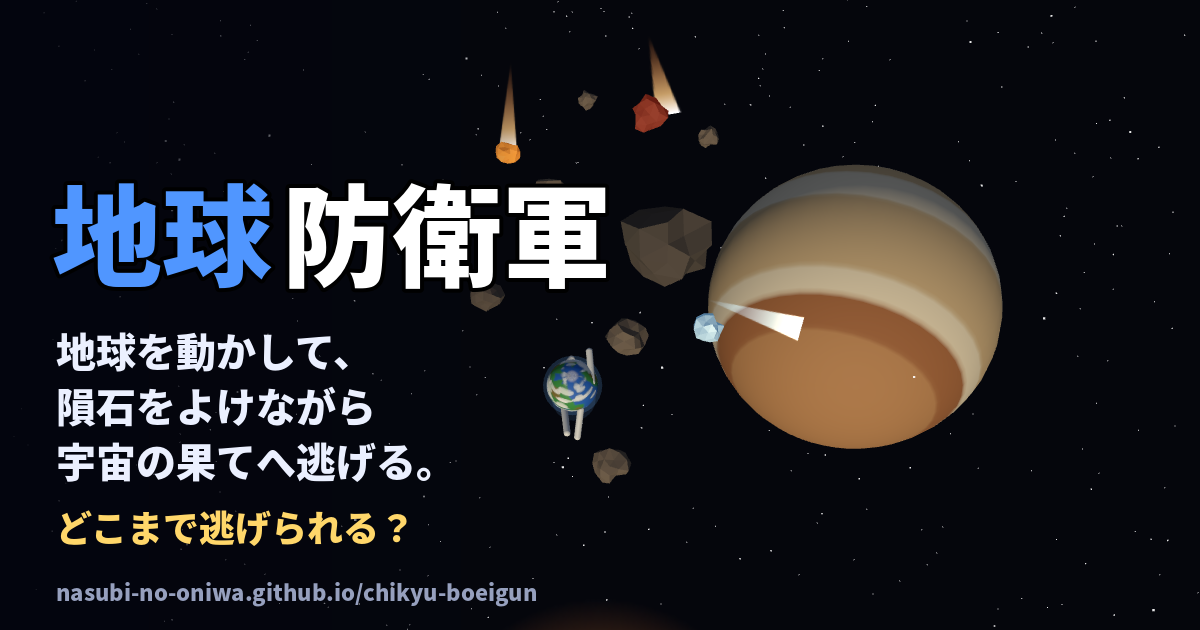
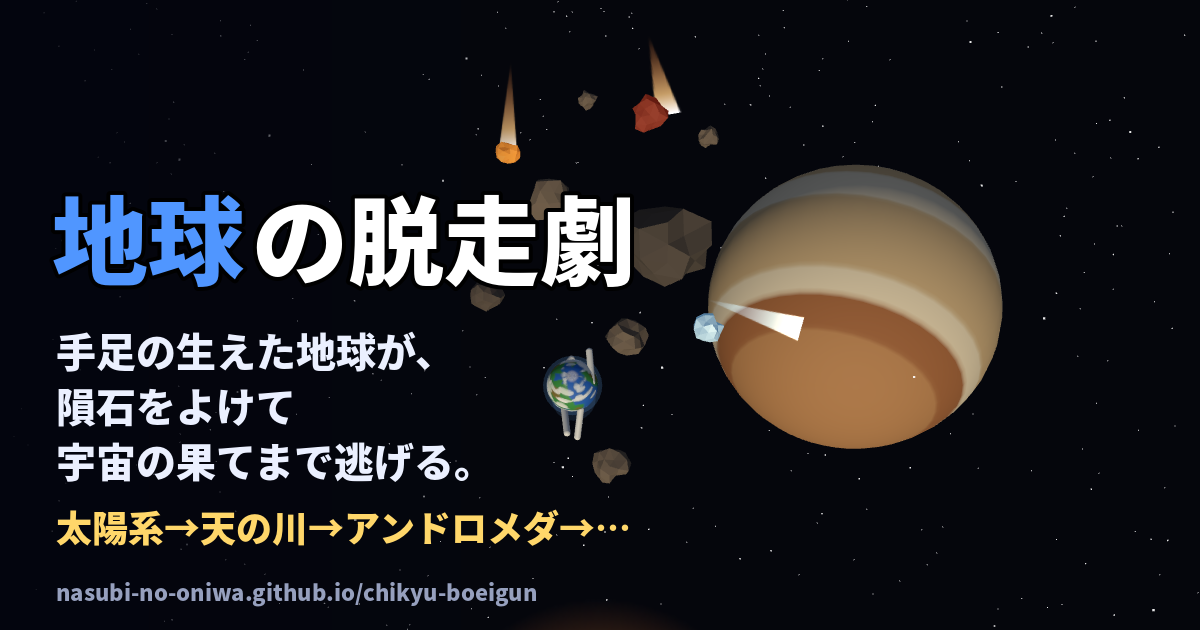
地球の脱走劇に改名。上の段のブースターで隕石を砕く。読み込みを減らす（操作の記録を分ける・掲示板30件・確かめは新しい分だけ・古い書きこみを消す）
Claude-Session: https://claude.ai/code/session_01JQ3FvDB9n2m8sabBvidoDU

Changed region(s): [[0.0308, 0.2714, 0.555, 0.4825], [0.0308, 0.5127, 0.4008, 0.7841], [0.0308, 0.8143, 0.5242, 0.8746]]

diff --git a/index.html b/index.html
@@ -11,10 +11,10 @@
 </script>
 <meta charset="utf-8">
 <meta name="viewport" content="width=device-width,initial-scale=1,viewport-fit=cover,user-scalable=no">
-<title>地球防衛軍</title>
+<title>地球の脱走劇</title>
 <meta name="description" content="地球を動かして隕石をよけ、太陽系→天の川→アンドロメダ→銀河の網の目→宇宙の果てへ。どこまで逃げられる？">
-<meta property="og:title" content="地球防衛軍">
-<meta property="og:description" content="地球を動かして隕石をよけ、太陽系→天の川→アンドロメダ→銀河の網の目→宇宙の果てへ。どこまで逃げられる？">
+<meta property="og:title" content="地球の脱走劇">
+<meta property="og:description" content="手足の生えた地球を動かして隕石をよけ、太陽系→天の川→アンドロメダ→銀河の網の目→宇宙の果てへ。どこまで逃げられる？">
 <meta property="og:image" content="https://nasubi-no-oniwa.github.io/chikyu-boeigun/ogp.png">
 <meta property="og:url" content="https://nasubi-no-oniwa.github.io/chikyu-boeigun/">
 <meta name="twitter:card" content="summary_large_image">
@@ -190,10 +190,10 @@ const esc=s=>String(s).replace(/[&<>"']/g,c=>({'&':'&amp;','<':'&lt;','>':'&gt;'
 
 // ===== ことば（日本語・英語・繁体中文・韓国語） =====
 const TX={
-ja:{title:'<em>地球</em>防衛軍',hud:'地球防衛軍',
+ja:{title:'<em>地球</em>の脱走劇',hud:'地球の脱走劇',
  how:'地球を動かして、隕石をよけながら宇宙の果てへ逃げます。ぷにコンで移動。1回でも当たったら木っ端みじん。ステージをクリアすると、次のステージと、その先用のブースターが手に入ります。',
  pcHow:'WASD・矢印キーで移動',
- name:'なまえ（12文字まで）',anon:'名無しの防衛隊員',start:'出撃する',rank:'ランキング',bbs:'掲示板',
+ name:'なまえ（12文字まで）',anon:'名無しの脱走者',start:'出撃する',rank:'ランキング',bbs:'掲示板',
  stageH:'ステージ',boostH:'ブースター',locked:'🔒 前のステージをクリアで開く',cleared:'クリア済み',clrN:'クリア {n}人',
  stages:['太陽系脱出','天の川銀河脱出','アンドロメダ銀河脱出','銀河の網の目','宇宙の果て'],
  tiers:['太陽系用','天の川用','アンドロメダ用','網の目用','宇宙の果て用'],
@@ -224,11 +224,11 @@ ja:{title:'<em>地球</em>防衛軍',hud:'地球防衛軍',
  bWait:'あと {n} 秒で書きこめます',bEmpty:'まだ書きこみがありません',bDone:'書きこみました',bErr:'書きこめませんでした',bBad:'その言葉は書きこめません',
  take:'受け取る（残り{n}人）',taken:'受け取りました',have:'もう持っている',full:'受け取りおわり',mine:'自分が投げたもの',takeErr:'受け取れませんでした',
  ago:{s:'{n}秒前',m:'{n}分前',h:'{n}時間前',d:'{n}日前'},
- postDead:'地球、「{s}」の途中で木っ端みじん\n{p}まで（{d}）',postClear:'地球が「{s}」を突破した！\n{t}秒・{b}',postFar:'地球を {d} 先まで逃がした\n到達「{p}」',tags:'#地球防衛軍'},
-en:{title:'Earth <em>Defense</em> Force',hud:'Earth Defense Force',
+ postDead:'地球、「{s}」の途中で木っ端みじん\n{p}まで（{d}）',postClear:'地球が「{s}」を突破した！\n{t}秒・{b}',postFar:'地球を {d} 先まで逃がした\n到達「{p}」',tags:'#地球の脱走劇'},
+en:{title:'The Great <em>Earth</em> Escape',hud:'The Great Earth Escape',
  how:'Move the Earth, dodge the meteors and flee to the edge of the universe. Use the stick to move. One hit and Earth is blown to bits. Clear a stage to unlock the next one and new boosters.',
  pcHow:'WASD / arrow keys to move',
- name:'Name (up to 12)',anon:'Anonymous defender',start:'Launch',rank:'Ranking',bbs:'Board',
+ name:'Name (up to 12)',anon:'Anonymous escapee',start:'Launch',rank:'Ranking',bbs:'Board',
  stageH:'Stage',boostH:'Booster',locked:'🔒 Clear the previous stage',cleared:'Cleared',clrN:'{n} cleared',
  stages:['Escape the Solar System','Escape the Milky Way','Escape Andromeda','The Cosmic Web','The Edge of the Universe'],
  tiers:['Solar class','Milky Way class','Andromeda class','Cosmic Web class','Edge class'],
@@ -259,11 +259,11 @@ en:{title:'Earth <em>Defense</em> Force',hud:'Earth Defense Force',
  bWait:'You can post in {n} s',bEmpty:'No posts yet',bDone:'Posted',bErr:'Could not post',bBad:'You can’t post that',
  take:'Take ({n} left)',taken:'Taken',have:'Already have it',full:'All taken',mine:'Yours',takeErr:'Could not take it',
  ago:{s:'{n}s ago',m:'{n}m ago',h:'{n}h ago',d:'{n}d ago'},
- postDead:'Earth blown to bits in "{s}"\nReached {p} ({d})',postClear:'Earth got through "{s}"!\n{t}s with {b}',postFar:'Got the Earth {d} away\nReached "{p}"',tags:'#地球防衛軍'},
-zh:{title:'<em>地球</em>防衛軍',hud:'地球防衛軍',
+ postDead:'Earth blown to bits in "{s}"\nReached {p} ({d})',postClear:'Earth got through "{s}"!\n{t}s with {b}',postFar:'Got the Earth {d} away\nReached "{p}"',tags:'#地球の脱走劇'},
+zh:{title:'<em>地球</em>大逃亡',hud:'地球大逃亡',
  how:'移動地球，閃開隕石，逃向宇宙盡頭。用搖桿移動。被撞到一次就粉身碎骨。過關就能打開下一關，還能拿到更遠用的推進器。',
  pcHow:'WASD・方向鍵移動',
- name:'名字（12字以內）',anon:'無名防衛隊員',start:'出擊',rank:'排行榜',bbs:'留言板',
+ name:'名字（12字以內）',anon:'無名逃亡者',start:'出擊',rank:'排行榜',bbs:'留言板',
  stageH:'關卡',boostH:'推進器',locked:'🔒 過了前一關才會打開',cleared:'已過關',clrN:'過關 {n}人',
  stages:['逃出太陽系','逃出銀河系','逃出仙女座星系','宇宙網','宇宙盡頭'],
  tiers:['太陽系用','銀河系用','仙女座用','宇宙網用','宇宙盡頭用'],
@@ -294,11 +294,11 @@ zh:{title:'<em>地球</em>防衛軍',hud:'地球防衛軍',
  bWait:'{n} 秒後可以留言',bEmpty:'還沒有留言',bDone:'已留言',bErr:'無法留言',bBad:'這個字詞不能用',
  take:'領取（剩{n}人）',taken:'已領取',have:'已經有了',full:'已領完',mine:'自己丟的',takeErr:'無法領取',
  ago:{s:'{n}秒前',m:'{n}分前',h:'{n}小時前',d:'{n}天前'},
- postDead:'地球在「{s}」途中粉身碎骨\n到{p}（{d}）',postClear:'地球突破了「{s}」！\n{t}秒・{b}',postFar:'讓地球逃到了 {d} 之外\n到達「{p}」',tags:'#地球防衛軍'},
-ko:{title:'<em>지구</em> 방위군',hud:'지구 방위군',
+ postDead:'地球在「{s}」途中粉身碎骨\n到{p}（{d}）',postClear:'地球突破了「{s}」！\n{t}秒・{b}',postFar:'讓地球逃到了 {d} 之外\n到達「{p}」',tags:'#地球の脱走劇'},
+ko:{title:'<em>지구</em> 대탈주',hud:'지구 대탈주',
  how:'지구를 움직여 운석을 피하며 우주의 끝으로 도망칩니다. 스틱으로 이동. 한 번이라도 맞으면 산산조각. 스테이지를 클리어하면 다음 스테이지와 더 먼 곳용 부스터를 얻습니다.',
  pcHow:'WASD·방향키로 이동',
- name:'이름 (12자까지)',anon:'이름 없는 방위대원',start:'출격',rank:'랭킹',bbs:'게시판',
+ name:'이름 (12자까지)',anon:'이름 없는 탈주자',start:'출격',rank:'랭킹',bbs:'게시판',
  stageH:'스테이지',boostH:'부스터',locked:'🔒 앞 스테이지를 클리어하면 열림',cleared:'클리어',clrN:'클리어 {n}명',
  stages:['태양계 탈출','은하수 탈출','안드로메다 탈출','우주 거미줄','우주의 끝'],
  tiers:['태양계용','은하수용','안드로메다용','거미줄용','우주 끝용'],
@@ -329,7 +329,7 @@ ko:{title:'<em>지구</em> 방위군',hud:'지구 방위군',
  bWait:'{n}초 후에 쓸 수 있어요',bEmpty:'아직 글이 없어요',bDone:'썼습니다',bErr:'쓰지 못했습니다',bBad:'그 말은 쓸 수 없어요',
  take:'받기 (남은 {n}명)',taken:'받았습니다',have:'이미 있음',full:'마감',mine:'내가 던진 것',takeErr:'받지 못했습니다',
  ago:{s:'{n}초 전',m:'{n}분 전',h:'{n}시간 전',d:'{n}일 전'},
- postDead:'지구, 「{s}」 도중에 산산조각\n{p}까지 ({d})',postClear:'지구가 「{s}」를 돌파했다!\n{t}초·{b}',postFar:'지구를 {d} 너머까지 도망시켰다\n도달 "{p}"',tags:'#地球防衛軍'}};
+ postDead:'지구, 「{s}」 도중에 산산조각\n{p}까지 ({d})',postClear:'지구가 「{s}」를 돌파했다!\n{t}초·{b}',postFar:'지구를 {d} 너머까지 도망시켰다\n도달 "{p}"',tags:'#地球の脱走劇'}};
 const LANGS=[['ja','日本語'],['en','English'],['zh','繁中'],['ko','한국어']];
 let lang=(q=>['ja','en','zh','ko'].includes(q)?q:null)(new URLSearchParams(location.search).get('lang'))||ls.get('cb_lang',null)||(n=>n.startsWith('ja')?'ja':n.startsWith('zh')?'zh':n.startsWith('ko')?'ko':'en')((navigator.language||'ja').toLowerCase());
 const t=(k,o)=>{let s=(TX[lang]||TX.ja)[k];if(s==null)s=TX.ja[k];if(o)for(const [a,b] of Object.entries(o))s=String(s).split('{'+a+'}').join(b);return s;};
@@ -418,6 +418,7 @@ const SFX={
  whoosh(){if(!ac())return;const n=AC.currentTime;noise(n,.35,'bandpass',600,1.5,.18,2400);},
  warp(){if(!ac())return;const n=AC.currentTime;noise(n,2.2,'bandpass',200,2,.5,6000);tone(n,110,2,'sawtooth',.12,1760);[523,659,784,1047,1319,1568].forEach((f,i)=>tone(n+.9+i*.1,f,.6,'triangle',.15));},
  boom(){if(!ac())return;const n=AC.currentTime;noise(n,2.2,'lowpass',2600,.6,1,60);tone(n,80,1.6,'sine',.9,24);noise(n,.25,'bandpass',3600,1,.5);for(let i=1;i<6;i++)noise(n+i*.13,.4,'lowpass',900,.8,.35/i,120);},
+ smash(){if(!ac())return;const n=AC.currentTime;noise(n,.4,'lowpass',1800,.8,.6,200);tone(n,160,.25,'square',.12,60);},
  coin(){if(!ac())return;const n=AC.currentTime;tone(n,988,.1,'square',.08);tone(n+.08,1319,.3,'square',.08);},
  droneOn(){if(!ac()||drone)return;const c=AC,g=c.createGain();g.gain.value=.0001;g.connect(master);const os=[55,82.4,110.3].map((f,i)=>{const o=c.createOscillator();o.type=i?'sine':'triangle';o.frequency.value=f;o.connect(g);o.start();return o;});g.gain.exponentialRampToValueAtTime(.05,c.currentTime+1.5);drone={g,os};},
  droneOff(){if(!drone)return;const d=drone;drone=null;const n=AC.currentTime;d.g.gain.cancelScheduledValues(n);d.g.gain.setValueAtTime(Math.max(.0001,d.g.gain.value),n);d.g.gain.exponentialRampToValueAtTime(.0001,n+.4);d.os.forEach(o=>o.stop(n+.45));}
@@ -633,7 +634,13 @@ function blowUp(x,z,seed){
  flash={m:new THREE.Mesh(new THREE.SphereGeometry(1,24,16),fm),age:0};flash.m.position.set(x,.55,z);S3.add(flash.m);
  shake=1.2;
 }
+// 上の段のブースターで隕石を砕いたとき
+const DEB=new THREE.MeshStandardMaterial({color:0x9a8a7a,roughness:.9,flatShading:true});
+function smashFx(m){const q=prng(m.id*7+3);
+ for(let i=0;i<10;i++){const c=new THREE.Mesh(chunkG,DEB);c.scale.setScalar(m.r*(.15+q()*.2));c.position.set(m.x,.55,m.z);S3.add(c);const a=q()*6.28,sp=2+q()*4;FX.push({m:c,vx:Math.cos(a)*sp,vy:q()*3,vz:Math.sin(a)*sp-2,rx:q()*8,ry:q()*8,life:1.2});}
+ shake=Math.min(1,shake+.25);}
 function stepFx(dt){
+ FX=FX.filter(f=>{if(f.life==null)return true;f.life-=dt;if(f.life<=0){S3.remove(f.m);return false;}return true;});
  for(const f of FX){f.m.position.x+=f.vx*dt;f.m.position.y+=f.vy*dt;f.m.position.z+=f.vz*dt;f.m.rotation.x+=f.rx*dt;f.m.rotation.y+=f.ry*dt;}
  if(flash){flash.age+=dt;const a=flash.age;flash.m.scale.setScalar(.5+a*5);flash.m.material.opacity=Math.max(0,1-a/.7);if(a>.8){S3.remove(flash.m);flash.m.material.dispose();flash.m.geometry.dispose();flash=null;}}
 }
@@ -702,7 +709,7 @@ function tickOnce(){
  handleEv(S.ev,S);
  if(S.dead)onDead();else if(S.clear)onClear();
 }
-function handleEv(ev,S){for(const x of ev){if(x.e==='warn'&&x.m.ti>x.m.t0)SFX.warn();else if(x.e==='go'&&x.m.k!=='peb')SFX.whoosh();}
+function handleEv(ev,S){for(const x of ev){if(x.e==='warn'&&x.m.ti>x.m.t0)SFX.warn();else if(x.e==='go'&&x.m.k!=='peb')SFX.whoosh();else if(x.e==='smash'){smashFx(x.m);SFX.smash();}}
  const p=EB.passed(S.stage,S.u);if(p>L.passed){const from=L.passed;L.passed=p;if(S.clear||p-from>1)return;const k=MARKS[S.stage][p-1][0];
   const belt=EB.STAGES[S.stage].belts.some(b=>Math.abs(b[0]-S.u)<.015);
   if(k==='helio'){flashText(t('escape'),'',2400);SFX.pass(true);}else{flashText(t('pass',{p:markName(S.stage,p-1)}),belt?t('beltIn'):'',1800);SFX.pass(false);}}}
@@ -714,7 +721,7 @@ function onDead(){
 }
 function onClear(){
  mode='clear';L.clearT=0;SFX.droneOff();SFX.warp();
- const fast=L.S.tick<60;
+ const fast=!!L.S.over;
  L.res={kind:'clear',ms:EB.ms(L.S.tick),stage:L.stage,u:1,b:L.bid,first:!cleared(L.stage)};
  bigText(fast?t('instant'):stName(L.stage)+' '+t('clearBig'),markName(L.stage,MARKS[L.stage].length-1));
  submitClear();
@@ -830,7 +837,8 @@ async function syncProg(){
   if(ch){saveProg();if(mode==='title')drawPick();}
  }catch(e){}
 }
-async function loadCounts(){try{const r=await Promise.all([1,2,3,4].map(s=>fetch(DB('clr/'+s)+'.json?shallow=true').then(x=>x.ok?x.json():undefined).catch(()=>undefined)));r.forEach((j,i)=>{if(j!==undefined)clrCount[i+1]=j?Object.keys(j).length:0;});if(mode==='title')drawPick();}catch(e){}}
+let countsAt=0;
+async function loadCounts(){if(Date.now()-countsAt<60000)return;countsAt=Date.now();try{const r=await Promise.all([1,2,3,4].map(s=>fetch(DB('clr/'+s)+'.json?shallow=true').then(x=>x.ok?x.json():undefined).catch(()=>undefined)));r.forEach((j,i)=>{if(j!==undefined)clrCount[i+1]=j?Object.keys(j).length:0;});if(mode==='title')drawPick();}catch(e){}}
 fbAuth().then(syncProg).catch(()=>{});
 // ずる対策：始める前にサーバーの時計で「始めます」を書く。その時刻で障害物の並びが決まる
 function takeTicket(){
@@ -869,8 +877,9 @@ async function submitFar(){
  try{const a=await fbAuth();
   const cur=await getJ('far/'+a.uid).catch(()=>null);
   if(cur&&cur.p>=p){setMsg(t('notbetter'),'');return;}
-  const rec={n:myName(),s:r.ms,p,b:r.b,st:L.st,in:EB.enc(L.D),v:EB.V,t:{'.sv':'timestamp'}};L.sent=rec;
-  const res=await PUT('far/'+a.uid,a,rec);
+  const rec={n:myName(),s:r.ms,p,b:r.b,st:L.st,v:EB.V,t:{'.sv':'timestamp'}};L.sent=rec;
+  const body={};body['far/'+a.uid]=rec;body['farIn/'+a.uid]={st:L.st,in:EB.enc(L.D)};
+  const res=await PATCH(a,body);
   if(res.status===401||res.status===403){setMsg(t('late'),'err');return;}
   if(!res.ok)throw new Error('put '+res.status);
   sendState.canRename=true;const rk=await myRank(a.uid);setMsg(t('sent',{r:rk||'?'}),'ok');
@@ -889,7 +898,7 @@ $('renameBtn').onclick=async()=>{
 };
 $('nameIn').addEventListener('change',()=>{const n=$('nameIn').value.trim();if(n&&badName(n)){$('nameIn').value='';return;}ls.set('cb_name',n);});
 async function loadBoard(){
- const [d,h]=await Promise.all([fetch(DB('far')+'.json?orderBy=%22p%22&limitToLast=300').then(r=>{if(!r.ok)throw 0;return r.json()}),getJ('hidden').catch(()=>null)]);
+ const [d,h]=await Promise.all([fetch(DB('far')+'.json?orderBy=%22p%22&limitToLast=100').then(r=>{if(!r.ok)throw 0;return r.json()}),getJ('hidden').catch(()=>null)]);
  return Object.entries(d||{}).map(([id,v])=>({...v,id})).filter(r=>!(h&&h[r.id])&&typeof r.p==='number').sort((a,b)=>b.p-a.p||a.t-b.t);
 }
 async function myRank(uid){try{const rows=await loadBoard();const i=rows.findIndex(r=>r.id===uid);return i>=0?i+1:null;}catch(e){return null;}}
@@ -906,7 +915,8 @@ async function openRank(fromResult){
   box.innerHTML=h+'</table>';
  }catch(e){box.innerHTML='<p>'+esc(t('rankerr'))+'</p>';}
 }
-$('rankBox').onclick=e=>{const b=e.target.closest('button[data-i]');if(!b)return;startReplay(rankRows[+b.dataset.i]);};
+$('rankBox').onclick=async e=>{const b=e.target.closest('button[data-i]');if(!b)return;const r=rankRows[+b.dataset.i];b.disabled=true;
+ try{const fi=await getJ('farIn/'+r.id);if(fi&&fi.st===r.st)startReplay({...r,in:fi.in});else b.disabled=false;}catch(_){b.disabled=false;}};
 
 // ===== 掲示板 =====
 let bbsRows=[],bbsClaims={},nextPostAt=ls.get('cb_lp',0),bbsTimer=0;
@@ -925,10 +935,10 @@ async function openBbs(){
 }
 async function loadBbs(){
  const box=$('bbsList');if(!bbsRows.length)box.innerHTML='<p>'+esc(t('loading'))+'</p>';
- try{const [d,h]=await Promise.all([fetch(DB('bbs')+'.json?orderBy=%22t%22&limitToLast=100').then(r=>{if(!r.ok)throw 0;return r.json()}),getJ('hidden').catch(()=>null)]);
+ try{const [d,h]=await Promise.all([fetch(DB('bbs')+'.json?orderBy=%22t%22&limitToLast=30').then(r=>{if(!r.ok)throw 0;return r.json()}),getJ('hidden').catch(()=>null)]);
   bbsRows=Object.entries(d||{}).map(([id,v])=>({...v,id})).filter(r=>!(h&&h[r.id])).sort((a,b)=>b.t-a.t);
   const gifts=bbsRows.filter(r=>typeof r.g==='number');
-  const cl=await Promise.all(gifts.map(r=>getJ('claim/'+r.id).catch(()=>null)));gifts.forEach((r,i)=>bbsClaims[r.id]=cl[i]||{});
+  if(gifts.length){const k0=gifts.map(r=>r.id).sort()[0];const cl=await fetch(DB('claim')+'.json?orderBy=%22$key%22&startAt=%22'+encodeURIComponent(k0)+'%22').then(r=>r.ok?r.json():null).catch(()=>null)||{};gifts.forEach(r=>bbsClaims[r.id]=cl[r.id]||{});}
   drawBbs();
  }catch(e){box.innerHTML='<p>'+esc(t('rankerr'))+'</p>';}
 }
@@ -942,7 +952,8 @@ function drawBbs(){
    g='<div class="gift"><span>🎁 '+esc(bFull(r.g))+'</span>'+btn+'</div>';}
   return '<div class="post"><div class="h"><b>'+esc(r.n)+'</b>　'+esc(ago(r.t))+'</div><div class="x">'+esc(r.x)+'</div>'+g+'</div>';}).join('');
 }
-const rid=()=>{const A='ABCDEFGHIJKLMNOPQRSTUVWXYZabcdefghijklmnopqrstuvwxyz0123456789';let s='';const a=new Uint32Array(20);crypto.getRandomValues(a);for(const x of a)s+=A[x%A.length];return s;};
+// 書きこみのID：前に時刻（古い順に並ぶ）、うしろに乱数
+const rid=()=>{const A='ABCDEFGHIJKLMNOPQRSTUVWXYZabcdefghijklmnopqrstuvwxyz0123456789';let s=Date.now().toString(36).padStart(9,'0');const a=new Uint32Array(12);crypto.getRandomValues(a);for(const x of a)s+=A[x%A.length];return s;};
 $('bPost').onclick=async()=>{
  const x=$('bText').value.trim(),m=$('bMsg');if(!x)return;
  if(badName(x)){m.textContent=t('bBad');m.className='note err';m.dataset.k='';return;}

diff --git a/sim.js b/sim.js
@@ -56,9 +56,12 @@
   function create(seed, stage, bid) {
     stage = stage || 1; if (bid == null) bid = (stage - 1) * 3 + 1;
     const B = boost(bid);
-    return { tick: 0, stage, B, x: 0, z: AH * 0.45, face: 24, moving: false,
+    const o = { tick: 0, stage, B, x: 0, z: AH * 0.45, face: 24, moving: false,
       u: 0, du: B.sp / 100 * tierF(B.tier, stage) / NOM, ksp: B.sp / 100, lat: B.ag / 100 * EV0,
       ms: [], nid: 1, next: 70, pnext: 0, R: rng(seed), dead: false, clear: false, ev: [] };
+    // 上の段のブースター：数秒で突き抜ける。そのあいだ隕石がどっと来るが、正面から砕ける
+    if (B.tier > stage) { const S = o; S.over = true; S.du = 1 / (TICK * (B.tier - stage === 1 ? 3 : 1.5)); S.ksp = 3.5; S.next = 6; S.lat = EV0 * 1.6; }
+    return o;
   }
   const lerp = (a, b, k) => a + (b - a) * k;
   // u は 1 をこえても（宇宙の果て）むずかしくなり続ける
@@ -143,8 +146,13 @@
       } else if (S.tick === m.ti && m.ti > m.t0) S.ev.push({ e: 'go', m });
       m.x += m.vx; m.z += m.vz;
       const dx = S.x - m.x, dz = S.z - m.z, rr = m.r * .9 + ER;
-      if (dx * dx + dz * dz < rr * rr && !S.dead) { S.dead = true; S.by = m; S.ev.push({ e: 'dead', m }); }
+      if (dx * dx + dz * dz < rr * rr && !S.dead && !m.gone) {
+        // そのステージより上の段のブースターなら、正面から砕ける
+        if (S.B.tier > S.stage) { m.gone = true; S.ev.push({ e: 'smash', m }); }
+        else { S.dead = true; S.by = m; S.ev.push({ e: 'dead', m }); }
+      }
     }
+    if (S.B.tier > S.stage) S.ms = S.ms.filter(m => !m.gone);
     if (S.tick >= END && !S.dead) { S.dead = true; S.ev.push({ e: 'dead', m: null }); }
     if (S.tick % 20 === 0) S.ms = S.ms.filter(m => S.tick < m.ti || (m.z < AH + 3 && m.x > -AW - 4 && m.x < AW + 4 && m.z > -AH - 8));
     return S;

diff --git a/tools/gen-rules.py b/tools/gen-rules.py
@@ -22,21 +22,25 @@ R={
    ".write":"auth != null && auth.uid === $uid && newData.exists() && (!data.exists() || now - data.child('t').val() >= 2000)",
    ".validate":"newData.hasChildren(['t'])","t":{".validate":"newData.val() === now"},"$other":{".validate":False}}},
  # ステージ1〜4を初めてクリアした記録
- "clr":{".read":True,"$stage":{"$uid":{
+ "clr":{".read":True,"$stage":{".indexOn":["t"],"$uid":{
    ".write":f"auth != null && auth.uid === $uid && !data.exists() && newData.exists() && {TIME} && {unlocked('$stage','$uid')} && {own(B,'$uid')}",
    ".validate":"newData.hasChildren(['s','st','in','b','v','t']) && $stage.length === 1 && $stage >= '1' && $stage <= '4'",
    "s":num(50,900000),"st":{".validate":"newData.isNumber()"},
    "in":{".validate":"newData.isString() && newData.val().length >= 1 && newData.val().length <= 160000"},
    "b":intb,"v":{".validate":"newData.val() === 2"},"t":{".validate":"newData.val() === now"},"$other":{".validate":False}}}},
  # 宇宙の果てのランキング（p：距離の点）
- "far":{".read":True,".indexOn":["p"],"$uid":{
-   ".write":f"auth != null && auth.uid === $uid && newData.exists() && (({TIME} && {clr(4,'$uid')} && {own(B,'$uid')} && (!data.exists() || (newData.child('st').val() > data.child('st').val() && newData.child('p').val() > data.child('p').val()))) || (data.exists() && newData.child('st').val() === data.child('st').val() && newData.child('s').val() === data.child('s').val() && newData.child('p').val() === data.child('p').val() && newData.child('b').val() === data.child('b').val() && newData.child('in').val() === data.child('in').val()))",
-   ".validate":"newData.hasChildren(['n','s','p','b','st','in','v','t'])",
+ "far":{".read":True,".indexOn":["p","t"],"$uid":{
+   ".write":f"auth != null && auth.uid === $uid && newData.exists() && newData.parent().parent().child('farIn/' + $uid + '/st').val() === newData.child('st').val() && (({TIME} && {clr(4,'$uid')} && {own(B,'$uid')} && (!data.exists() || (newData.child('st').val() > data.child('st').val() && newData.child('p').val() > data.child('p').val()))) || (data.exists() && newData.child('st').val() === data.child('st').val() && newData.child('s').val() === data.child('s').val() && newData.child('p').val() === data.child('p').val() && newData.child('b').val() === data.child('b').val()))",
+   ".validate":"newData.hasChildren(['n','s','p','b','st','v','t'])",
    "n":{".validate":"newData.isString() && newData.val().length >= 1 && newData.val().length <= 12"},
    "s":num(100,900000),"p":num(1,900000*60),"st":{".validate":"newData.isNumber()"},
-   "in":{".validate":"newData.isString() && newData.val().length >= 1 && newData.val().length <= 160000"},
    "b":{".validate":"newData.isNumber() && newData.val() >= 12 && newData.val() <= 14 && newData.val() % 1 === 0"},
    "v":{".validate":"newData.val() === 2"},"t":{".validate":"newData.val() === now"},"$other":{".validate":False}}},
+ # 宇宙の果ての操作の記録（ランキングを開くときには読まない。再生するときだけ読む）
+ "farIn":{"$uid":{".read":True,
+   ".write":"auth != null && auth.uid === $uid && newData.exists() && newData.parent().parent().child('far/' + $uid + '/st').val() === newData.child('st').val()",
+   ".validate":"newData.hasChildren(['st','in'])","st":{".validate":"newData.isNumber()"},
+   "in":{".validate":"newData.isString() && newData.val().length >= 1 && newData.val().length <= 160000"},"$other":{".validate":False}}},
  # 掲示板
  "lp":{"$uid":{".write":"auth != null && auth.uid === $uid && newData.val() === now && (!data.exists() || now - data.val() >= 20000)"}},
  "gave":{"$uid":{".read":"auth != null && auth.uid === $uid","$t":{".write":"auth != null && auth.uid === $uid && !data.exists() && newData.val() === now && $t >= 't2' && $t <= 't5' && $t.length === 2"}}},

diff --git a/README.md b/README.md
@@ -1,6 +1,6 @@
-# 地球防衛軍
+# 地球の脱走劇
 
-地球を動かして、隕石をよけながら太陽系を脱出する。どこまで逃げられる？
+手足の生えた地球を動かして、隕石をよけながら太陽系から宇宙の果てまで逃げる。
 
 遊ぶ：https://nasubi-no-oniwa.github.io/chikyu-boeigun/
 
